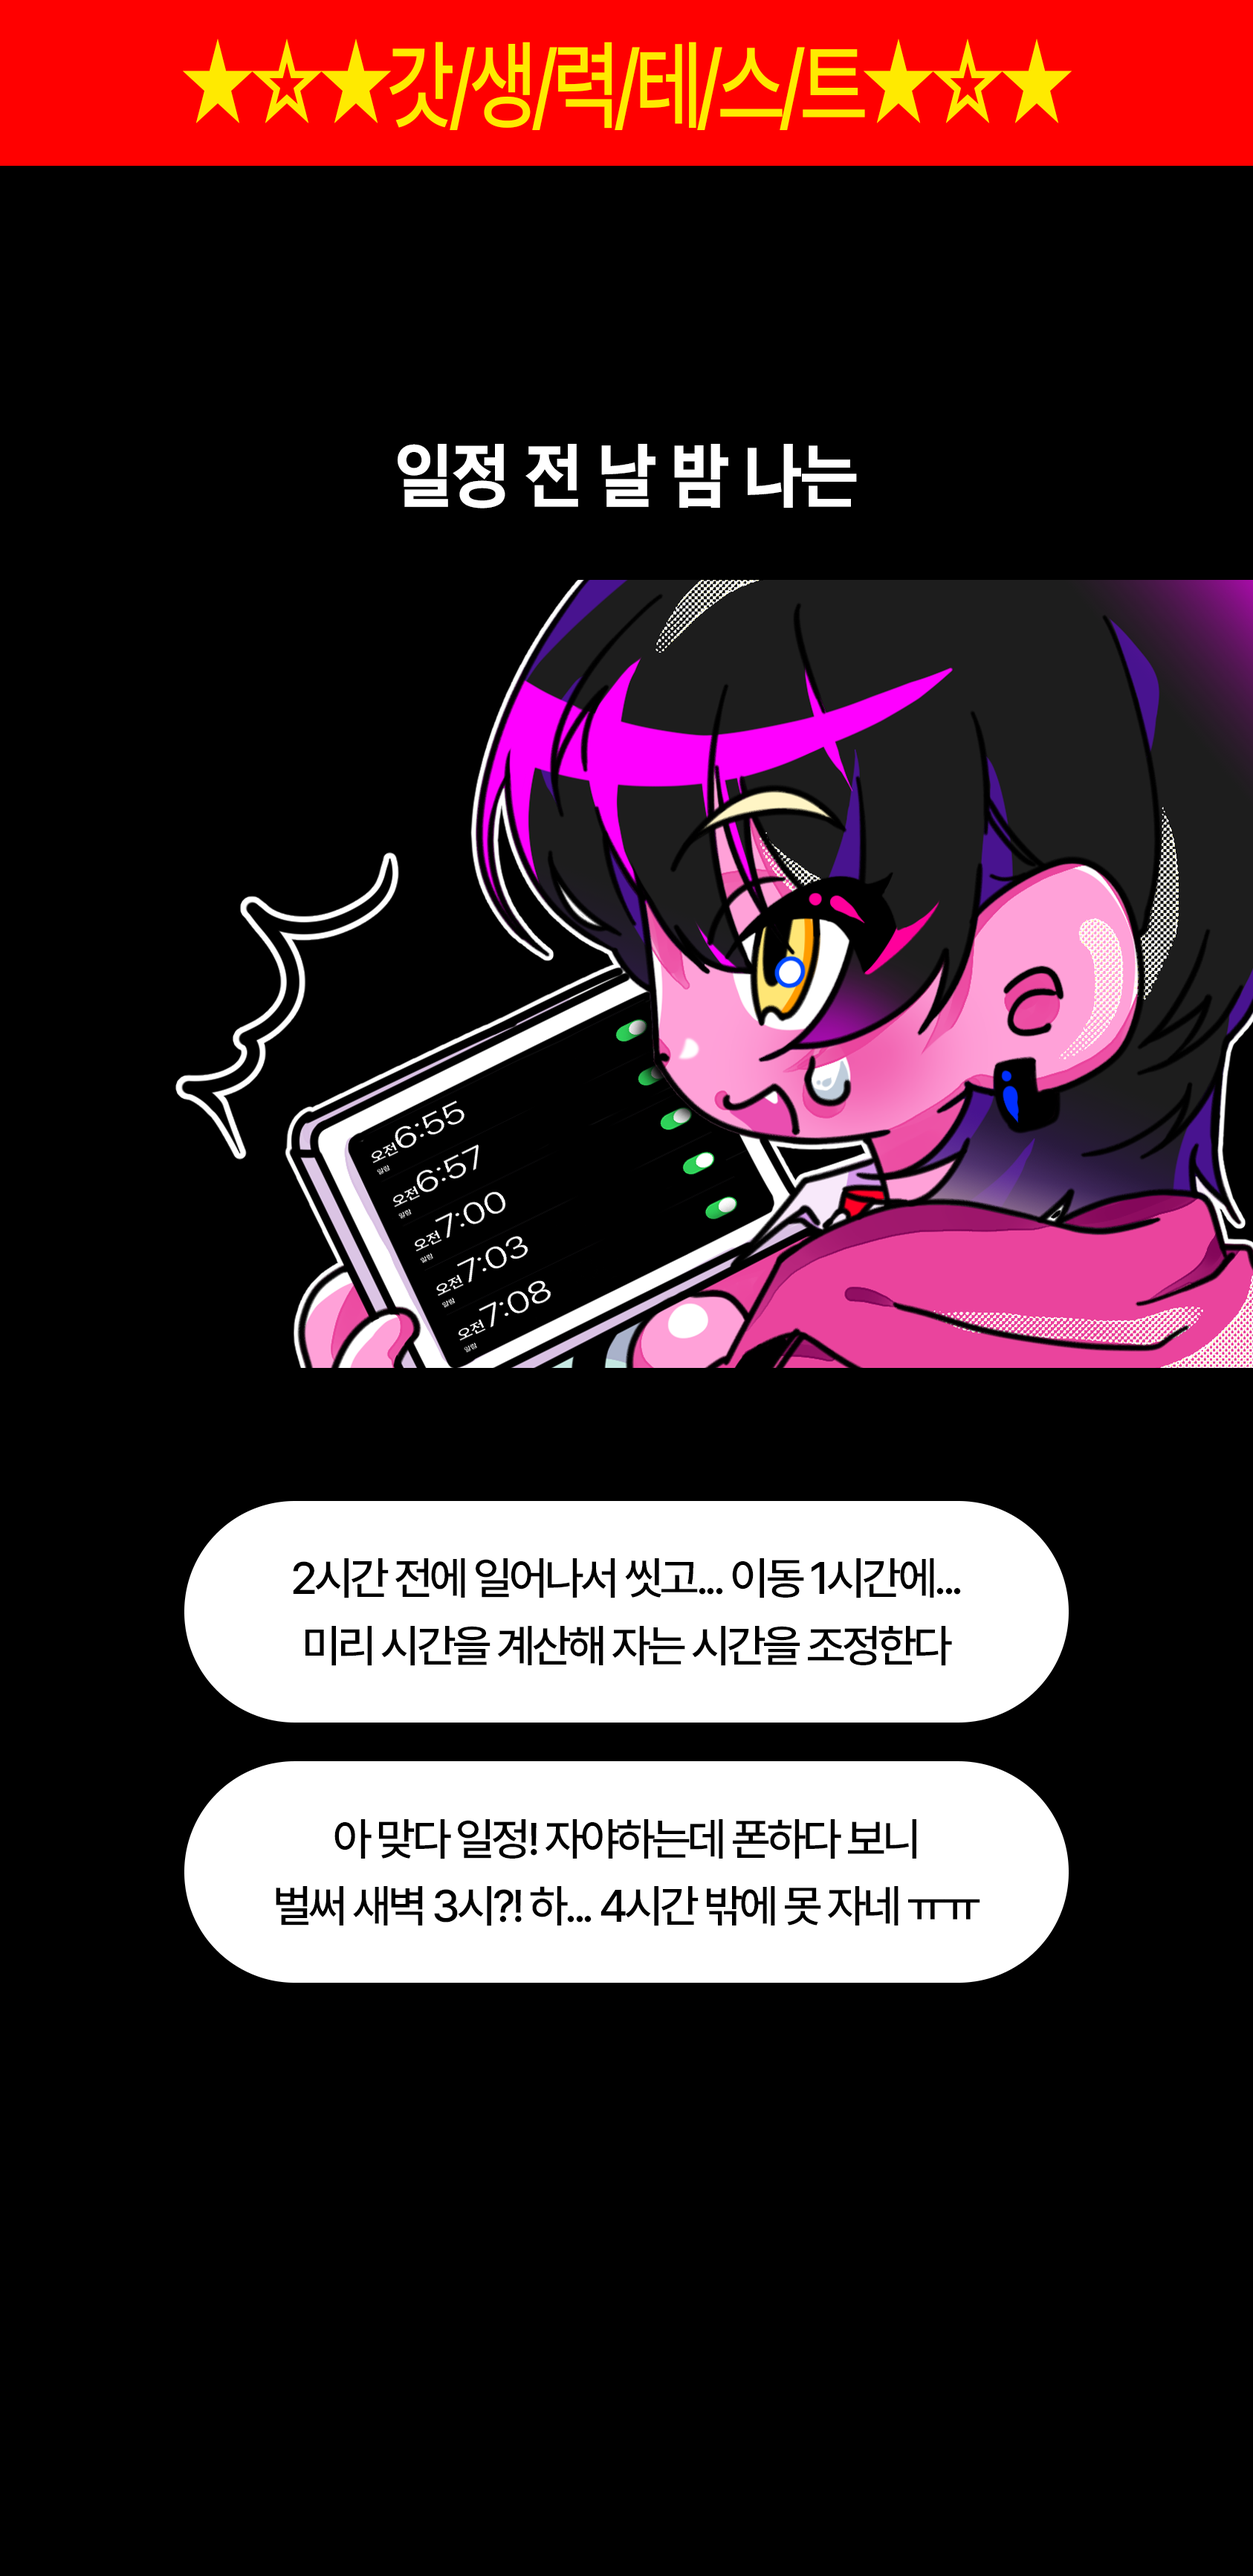
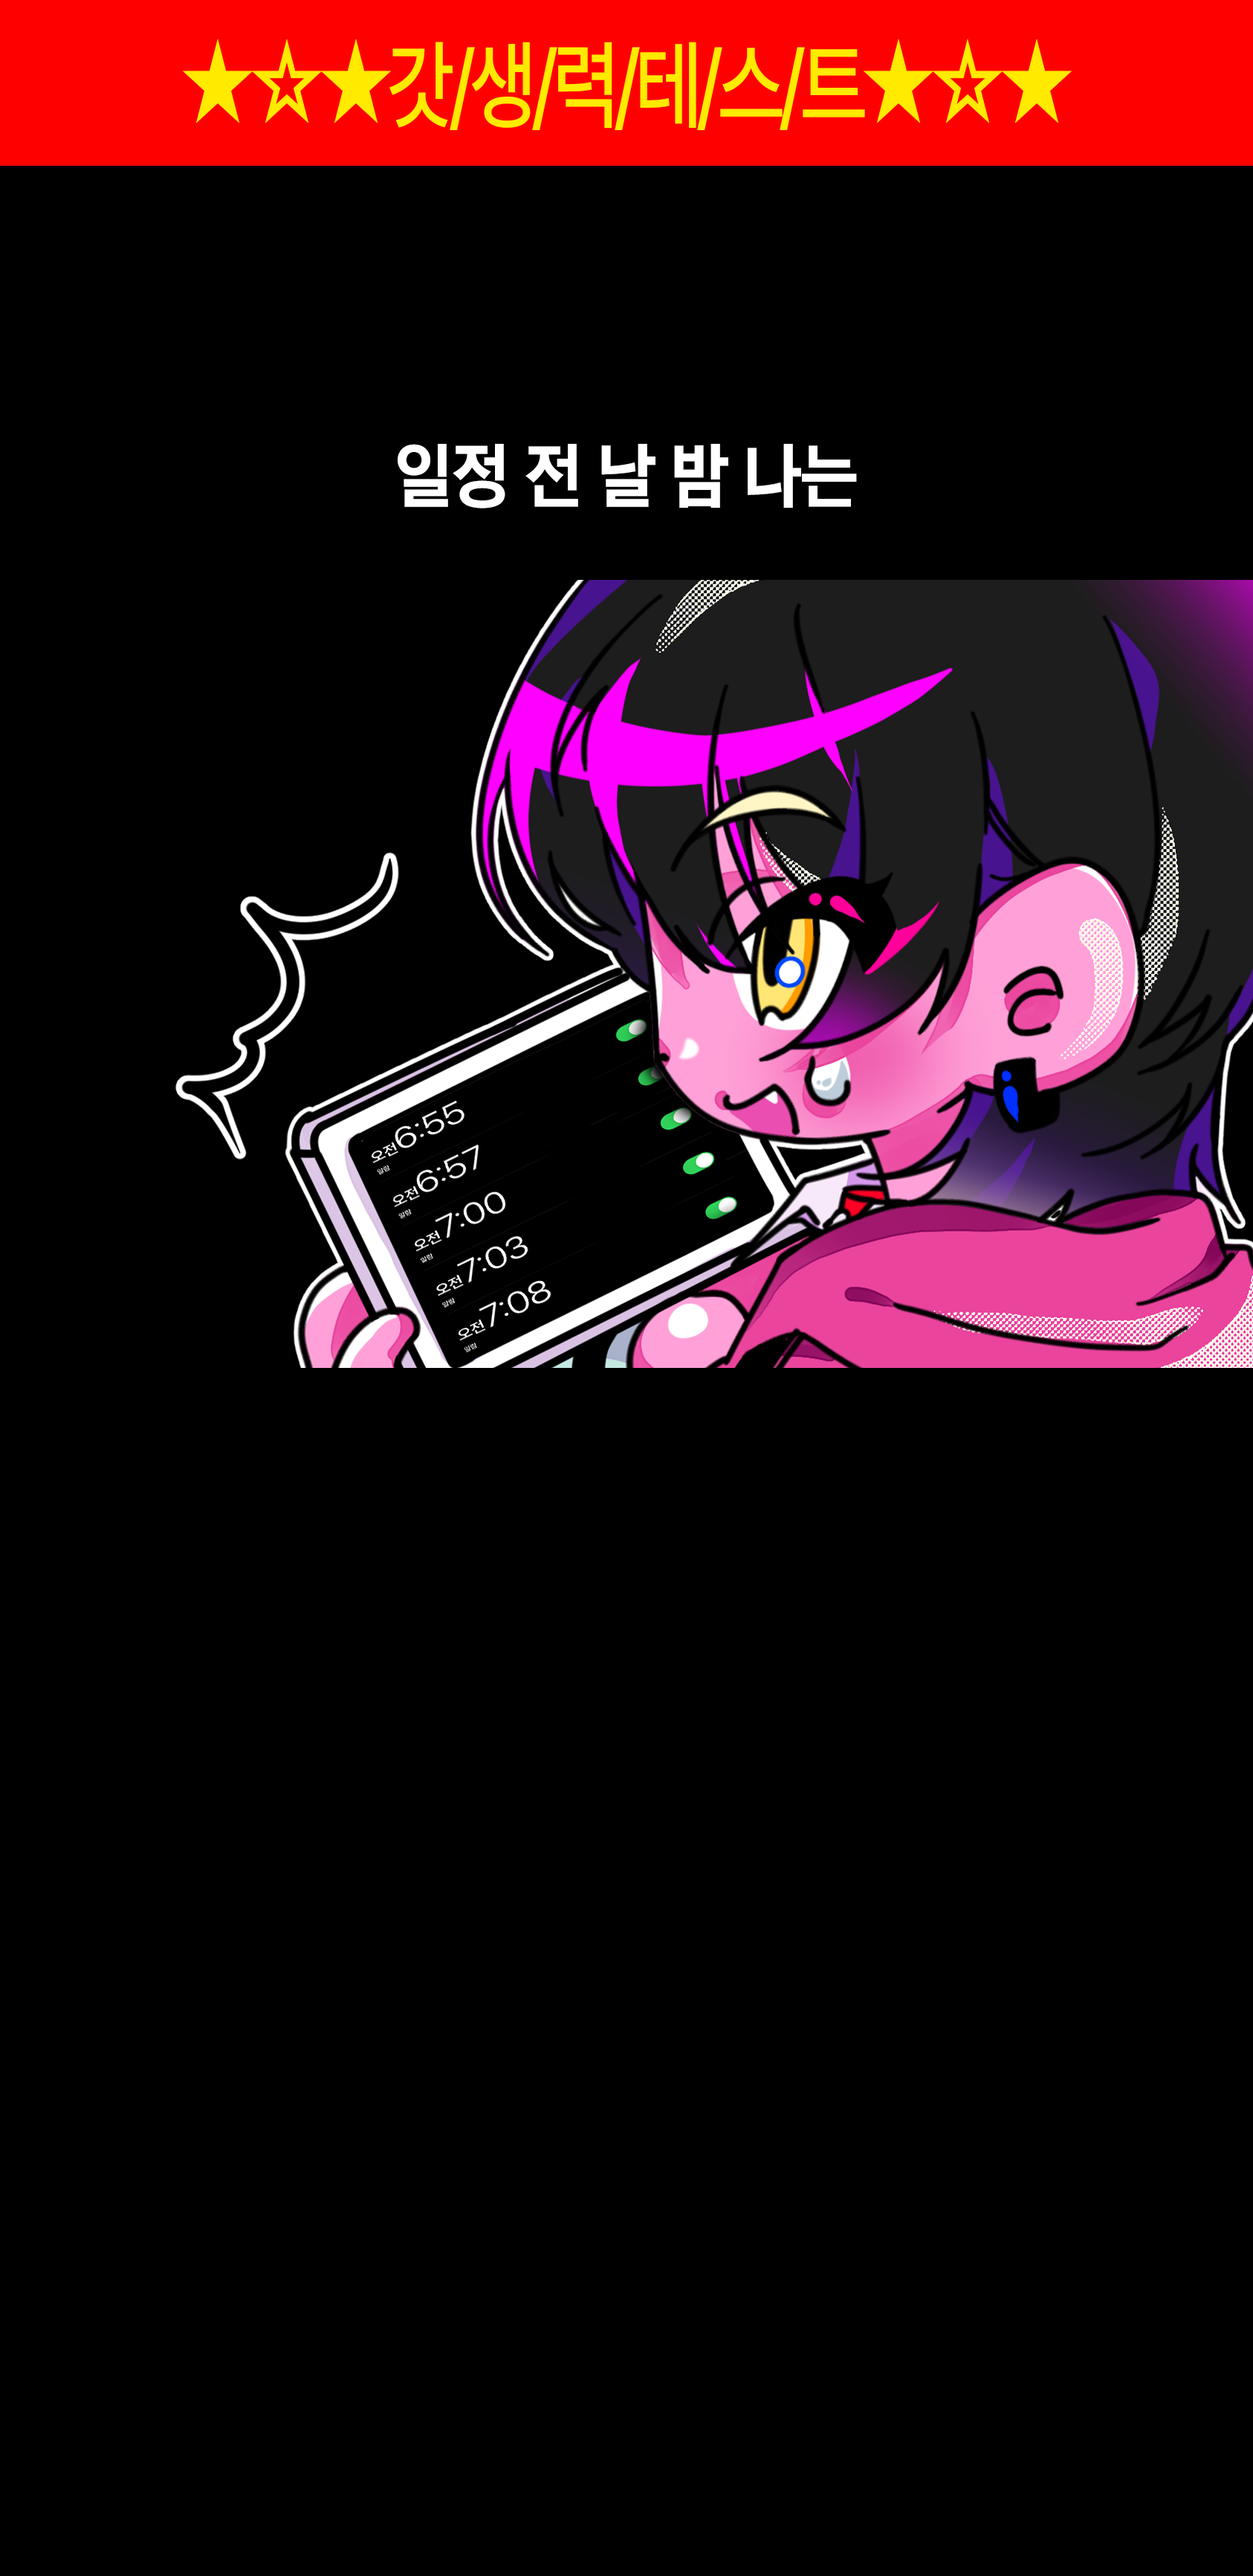
chore: img layout

Changed region(s): [[0.1234, 0.561, 0.8636, 0.7792]]

diff --git a/src/pages/Result/index.tsx b/src/pages/Result/index.tsx
@@ -1,7 +1,8 @@
 import React from "react";
-import { useParams } from "react-router-dom";
+import { useNavigate, useParams } from "react-router-dom";
 import styled from "styled-components";
 
+import ResultBackground from "./ResultImgs/result-background.png";
 import G0 from "./ResultImgs/g1.png";
 import G1 from "./ResultImgs/g2.png";
 import G2 from "./ResultImgs/g3.png";
@@ -14,30 +15,84 @@ import G8 from "./ResultImgs/g8.png";
 
 const Result = () => {
   const params = useParams();
+  const navigate = useNavigate();
 
   return (
     <Container>
-      {Number(params.id) === 0 && <Img src={G0} />}
-      {Number(params.id) === 1 && <Img src={G1} />}
-      {Number(params.id) === 2 && <Img src={G2} />}
-      {Number(params.id) === 3 && <Img src={G3} />}
-      {Number(params.id) === 4 && <Img src={G4} />}
-      {Number(params.id) === 5 && <Img src={G5} />}
-      {Number(params.id) === 6 && <Img src={G6} />}
-      {Number(params.id) === 7 && <Img src={G7} />}
-      {Number(params.id) === 8 && <Img src={G8} />}
+      <Background src={ResultBackground} />
+      <ResultImgBlock>
+        {Number(params.id) === 0 && <Img src={G0} />}
+        {Number(params.id) === 1 && <Img src={G1} />}
+        {Number(params.id) === 2 && <Img src={G2} />}
+        {Number(params.id) === 3 && <Img src={G3} />}
+        {Number(params.id) === 4 && <Img src={G4} />}
+        {Number(params.id) === 5 && <Img src={G5} />}
+        {Number(params.id) === 6 && <Img src={G6} />}
+        {Number(params.id) === 7 && <Img src={G7} />}
+        {Number(params.id) === 8 && <Img src={G8} />}
+        <Name>님은 선택적 갓생러!</Name>
+      </ResultImgBlock>
+      <ButtonWrapper>
+        <Button onClick={() => navigate("/result/all")}>
+          모든 결과 유형 보기
+        </Button>
+        <Button onClick={() => navigate("/")}>테스트 다시 하기</Button>
+      </ButtonWrapper>
     </Container>
   );
 };
 
 const Container = styled.div`
   width: 100%;
-  height: 100vh;
+`;
+
+const Background = styled.img`
+  width: 100%;
+  height: 1148px;
+  background-size: contain;
+`;
+
+const ResultImgBlock = styled.div`
+  display: flex;
+  justify-content: center;
+  position: absolute;
+  top: 10%;
 `;
 
 const Img = styled.img`
-  width: 100%;
+  width: calc(100% - 48px);
   background-size: contain;
+`;
+
+const Name = styled.div`
+  display: flex;
+  position: absolute;
+  top: 50%;
+  font-size: 16px;
+  font-weight: 600;
+  color: #000;
+`;
+
+const ButtonWrapper = styled.div`
+  width: 100%;
+  display: flex;
+  flex-direction: column;
+  align-items: center;
+  gap: 12px;
+  position: absolute;
+  top: 70%;
+`;
+
+const Button = styled.div`
+  width: 240px;
+  height: 54px;
+  display: flex;
+  justify-content: center;
+  align-items: center;
+  background: #1a1a1a;
+  border-radius: 8px;
+  font-size: 16px;
+  font-weight: 500;
 `;
 
 export default Result;

diff --git a/src/pages/Questions/index.tsx b/src/pages/Questions/index.tsx
@@ -171,6 +171,7 @@ const Container = styled.div`
   width: 100%;
   height: 100vh;
   position: relative;
+  min-height: 800px;
 `;
 
 const Img = styled.img`
@@ -187,7 +188,7 @@ const QuestionBlock = styled.div`
   align-items: center;
 
   position: absolute;
-  top: 43%;
+  top: 34.5%;
 `;
 
 const ProgressBar = styled.div`
@@ -195,7 +196,7 @@ const ProgressBar = styled.div`
   height: 4px;
   background: #e6e6e6;
   position: absolute;
-  top: 4.6%;
+  top: 50px;
 `;
 
 const Progress = styled.div<{ progress?: number }>`

diff --git a/index.html b/index.html
@@ -3,7 +3,10 @@
   <head>
     <meta charset="UTF-8" />
     <!-- <link rel="icon" type="image/svg+xml" href="/vite.svg" /> -->
-    <meta name="viewport" content="width=device-width, initial-scale=1.0" />
+    <meta
+      name="viewport"
+      content="width=device-width, initial-scale=1.0, maximum-scale=1.0, user-scalable=0"
+    />
     <meta property="og:image" content="/thumbnail.png" />
     <title>갓생력 테스트</title>
   </head>

diff --git a/src/pages/Home/index.tsx b/src/pages/Home/index.tsx
@@ -75,6 +75,7 @@ const Container = styled.div`
   width: 100%;
   height: 100%;
   position: relative;
+  min-height: 1200px;
 `;
 
 const Background = styled.img`
@@ -88,7 +89,7 @@ const Block = styled.div`
   flex-direction: column;
   align-items: center;
   position: absolute;
-  bottom: 0%;
+  top: 45%;
 `;
 
 const Name = styled.input`

diff --git a/src/router/layouts/BaseLayout.tsx b/src/router/layouts/BaseLayout.tsx
@@ -27,7 +27,7 @@ function BaseLayout() {
 }
 
 const Content = styled.div`
-  max-width: 480px;
+  max-width: 390px;
   margin: 0 auto;
   min-height: 100vh; /* fallback */
   min-height: calc(var(--vh) * 100);

diff --git a/src/components/Toast/index.tsx b/src/components/Toast/index.tsx
@@ -61,7 +61,7 @@ export default function Toast() {
 }
 
 export const Container = styled(ToastContainer)`
-  max-width: 480px;
+  max-width: 390px;
   width: 100%;
   padding: 0;
   .Toastify__toast {
